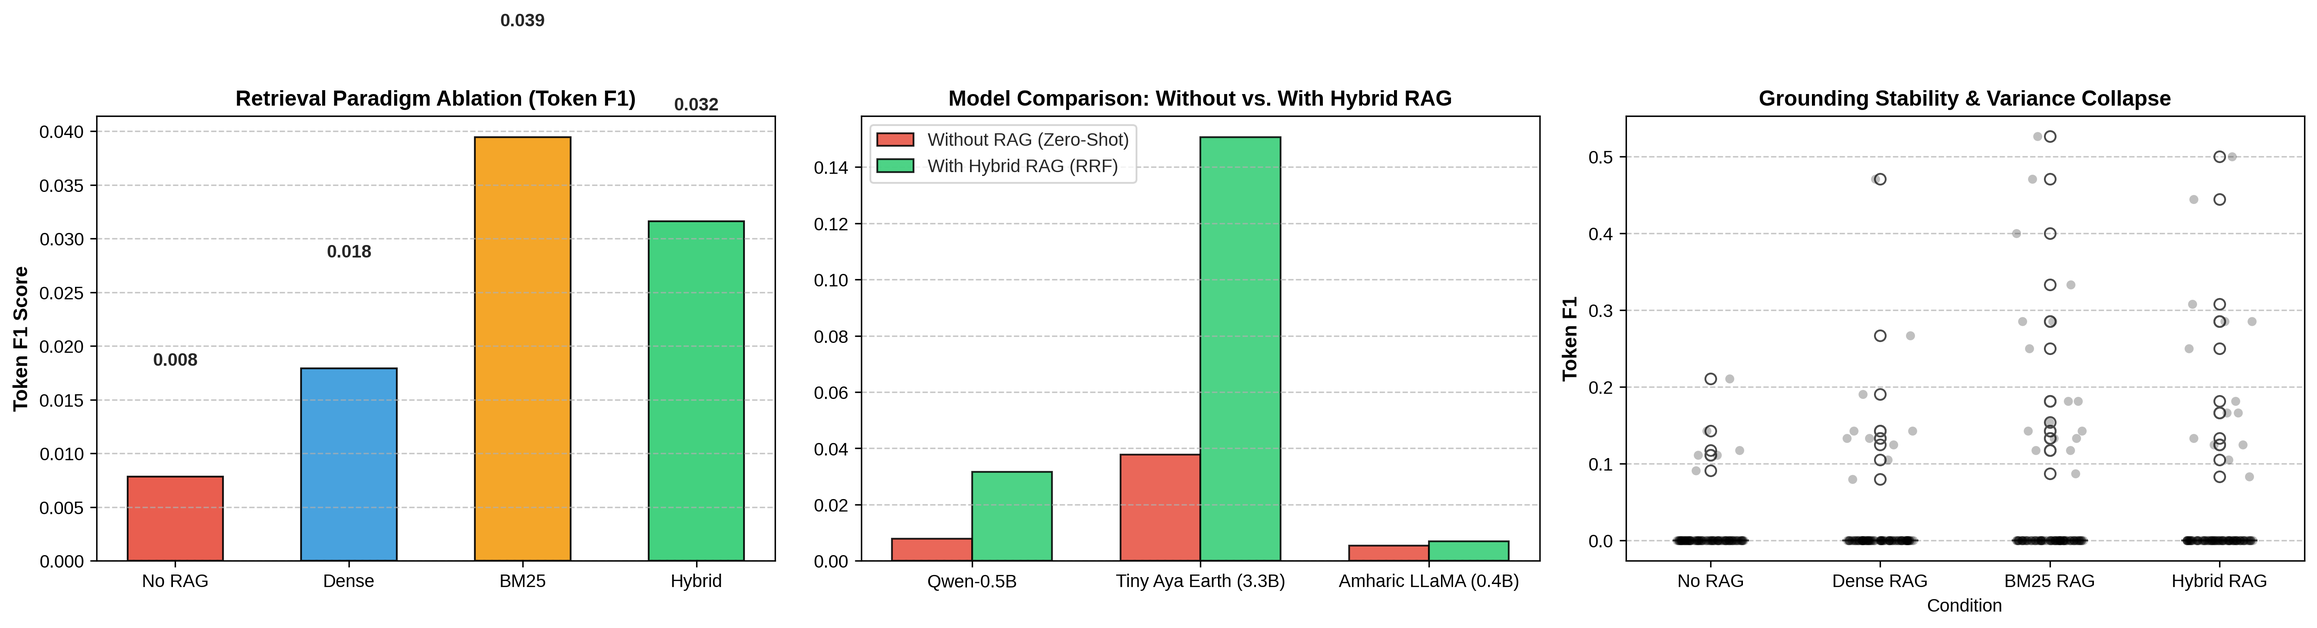
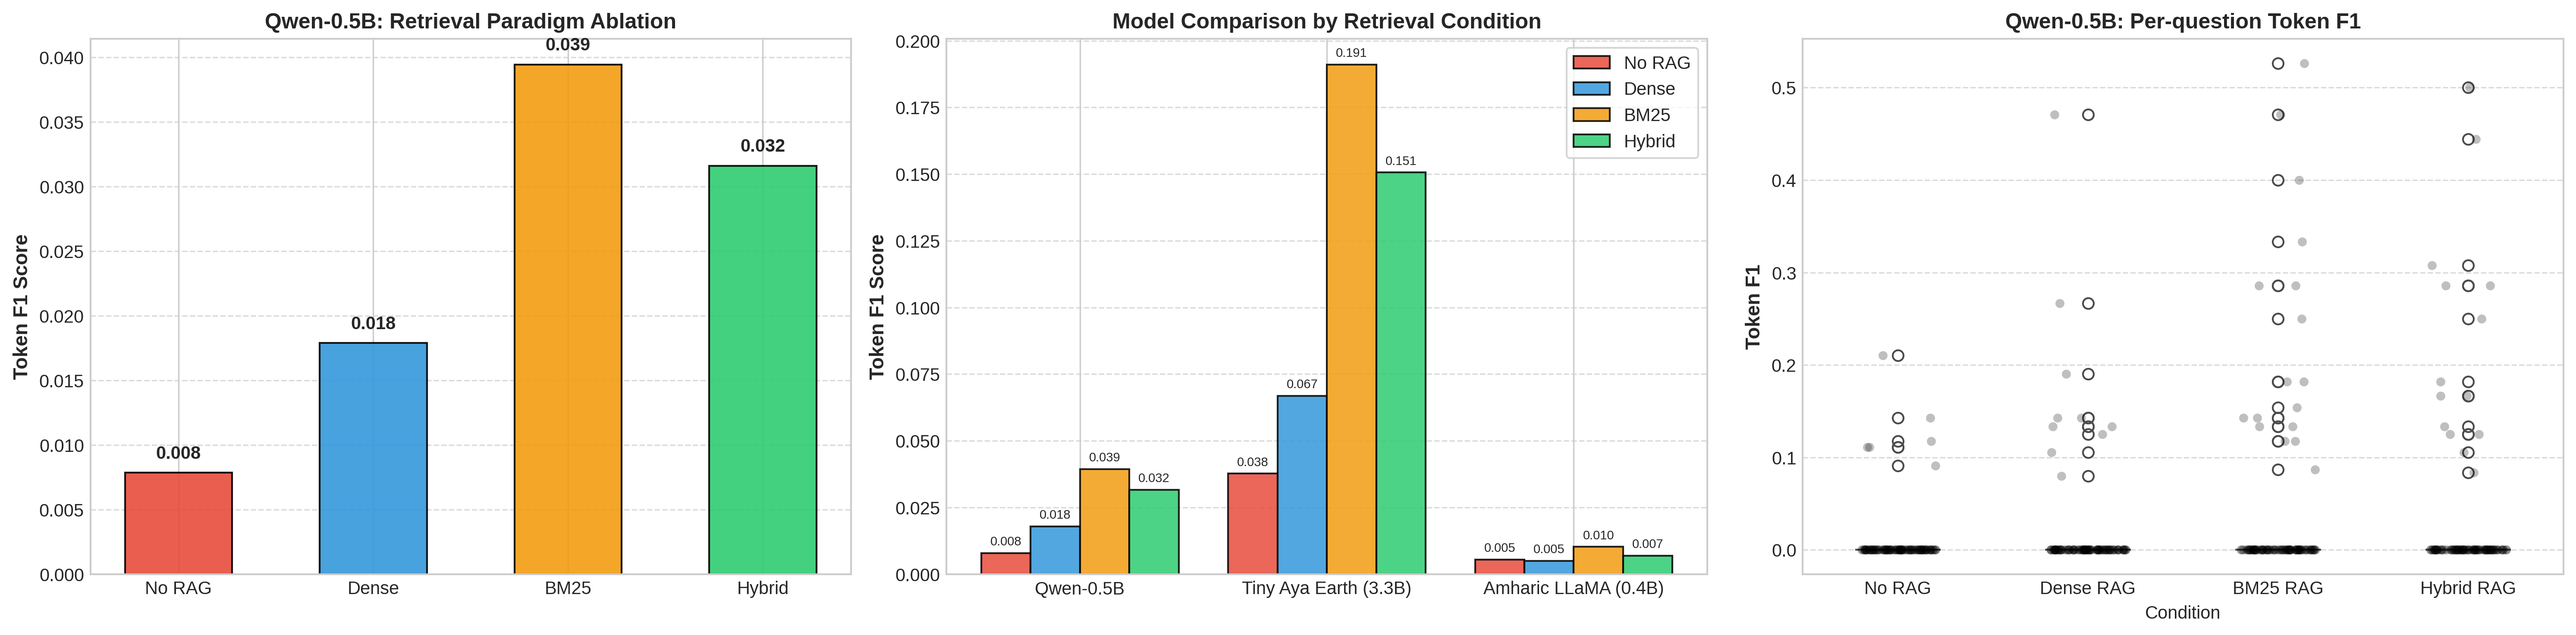
Score all conditions for all models, update README and results

diff --git a/README.md b/README.md
@@ -8,7 +8,7 @@ A small, fully reproducible study of whether retrieval-augmented generation (RAG
 
 ![Results](figures/amharic_rag_enhanced_evaluation.png)
 
-*Left: Qwen2.5-0.5B token F1 by retrieval mode. Middle: each generator without RAG vs. with hybrid RAG. Right: per-question token F1 for Qwen under each condition; most points sit at 0 in every condition.*
+*Left: Qwen2.5-0.5B token F1 by retrieval mode. Middle: token F1 for all three generators under all four conditions. Right: per-question token F1 for Qwen under each condition; most points sit at 0 in every condition.*
 
 ## Setup
 
@@ -40,52 +40,55 @@ BM25 is by far the strongest retriever here. The dense encoder is weak on Amhari
 
 ### 2. End-to-end generation (100 questions, mean token F1)
 
-| Model | No RAG | Dense | BM25 | Hybrid | Δ (Hybrid − No RAG) |
+| Model | No RAG | Dense | BM25 | Hybrid | Δ (best RAG − No RAG) |
 |---|---|---|---|---|---|
-| Qwen2.5-0.5B | 0.008 | 0.018 | **0.039** | 0.032 | +0.024 |
-| **Tiny Aya Earth 3.35B** | 0.038 | not scored | not scored | **0.151** | **+0.113** (about 4x) |
-| Amharic-LLaMA 0.4B | 0.005 | not scored | not scored | 0.007 | +0.002 |
+| Qwen2.5-0.5B | 0.008 | 0.018 | **0.039** | 0.032 | +0.032 (BM25) |
+| **Tiny Aya Earth 3.35B** | 0.038 | 0.067 | **0.191** | 0.151 | **+0.153 (BM25), about 5x** |
+| Amharic-LLaMA 0.4B | 0.005 | 0.005 | **0.010** | 0.007 | +0.005 (BM25) |
 
 Exact Match is 0.0 in every condition.
 
 <details>
 <summary>All metrics (means over 100 questions)</summary>
 
-| Condition | EM | Token F1 | ROUGE-1 | ROUGE-L | SacreBLEU | Token F1 p-value vs. Qwen No-RAG |
+| Condition | EM | Token F1 | ROUGE-1 | ROUGE-L | SacreBLEU | Token F1 p-value vs. own No-RAG |
 |---|---|---|---|---|---|---|
 | Qwen-0.5B, No RAG | 0.0 | 0.0078 | 0.0000 | 0.0000 | 0.27 | baseline |
 | Qwen-0.5B, Dense | 0.0 | 0.0179 | 0.0080 | 0.0080 | 0.45 | 9.4e-2 (n.s.) |
 | Qwen-0.5B, BM25 | 0.0 | 0.0394 | 0.0493 | 0.0493 | 1.26 | 3.7e-3 (**) |
 | Qwen-0.5B, Hybrid | 0.0 | 0.0316 | 0.0400 | 0.0400 | 0.80 | 1.5e-2 (*) |
-| Tiny Aya Earth, No RAG | 0.0 | 0.0377 | 0.0029 | 0.0029 | 0.89 | 8.8e-5 (***) † |
-| Tiny Aya Earth, Hybrid | 0.0 | 0.1506 | 0.1144 | 0.1144 | 5.12 | 9.9e-14 (***) † |
-| Amharic-LLaMA, No RAG | 0.0 | 0.0054 | 0.0017 | 0.0017 | 0.08 | 4.7e-1 (n.s.) † |
-| Amharic-LLaMA, Hybrid | 0.0 | 0.0069 | 0.0079 | 0.0079 | 0.14 | 8.0e-1 (n.s.) † |
+| Tiny Aya Earth, No RAG | 0.0 | 0.0377 | 0.0029 | 0.0029 | 0.89 | baseline |
+| Tiny Aya Earth, Dense | 0.0 | 0.0669 | 0.0380 | 0.0380 | 1.94 | 1.6e-2 (*) |
+| Tiny Aya Earth, BM25 | 0.0 | 0.1911 | 0.1383 | 0.1383 | 6.93 | 4.3e-15 (***) |
+| Tiny Aya Earth, Hybrid | 0.0 | 0.1506 | 0.1144 | 0.1144 | 5.12 | 7.0e-10 (***) |
+| Amharic-LLaMA, No RAG | 0.0 | 0.0054 | 0.0017 | 0.0017 | 0.08 | baseline |
+| Amharic-LLaMA, Dense | 0.0 | 0.0050 | 0.0050 | 0.0050 | 0.12 | 8.7e-1 (n.s.) |
+| Amharic-LLaMA, BM25 | 0.0 | 0.0102 | 0.0047 | 0.0047 | 0.29 | 4.4e-2 (*) |
+| Amharic-LLaMA, Hybrid | 0.0 | 0.0069 | 0.0079 | 0.0079 | 0.14 | 5.5e-1 (n.s.) |
 
-† Cross-model comparison against Qwen's No-RAG scores on the same questions. It shows the model differs from Qwen's baseline, not that RAG helped that model. See the note on p-values below.
+p-values are paired t-tests on per-question token F1, each condition against the same model's No-RAG condition, uncorrected for multiple comparisons. `amharic_rag_enhanced_metrics_summary.csv` also has a column with p-values against *Qwen's* No-RAG baseline; for Tiny Aya and Amharic-LLaMA that column compares across models and does not measure the RAG effect.
 
 </details>
 
 **What the data supports**
 
-- **Retrieval quality is the clearest finding:** BM25 ≫ hybrid ≫ dense on the 60-question retrieval set.
-- **Tiny Aya Earth benefits most from RAG.** Mean token F1 rises from 0.038 to 0.151 (about 4x), ROUGE-1 from 0.003 to 0.114, SacreBLEU from 0.9 to 5.1. It is also the strongest generator without retrieval (0.038 vs. 0.008 for Qwen, paired p = 8.8e-5 on the same questions). A within-model significance test for its RAG gain was not run in this notebook.
-- **Qwen2.5-0.5B improves with every retrieval mode, but from a very low base.** Against its own No-RAG baseline: BM25 +0.032 (p = 0.004), hybrid +0.024 (p = 0.015), dense +0.010 (p = 0.094, n.s.). With 7 comparisons in the table, a Bonferroni threshold is 0.05 / 7 ≈ 0.007: BM25 clears it, hybrid does not. The ordering BM25 > hybrid > dense matches the retrieval ranking, which is suggestive, but the three RAG modes were not tested against each other. Even with the best retriever, mean F1 stays below 0.04.
-- **The Amharic-native 0.4B model shows no measurable benefit** from RAG (+0.002 F1, n.s.). The cause was not diagnosed here; inspect `amharic_rag_enhanced_detailed_predictions.csv` for the raw outputs.
+- **Retrieval quality is the clearest finding:** BM25 ≫ hybrid ≫ dense on the 60-question retrieval set (Recall@3 of 0.90 / 0.58 / 0.12, and the generator sees the top 3 passages).
+- **Generation follows the same ordering for all three models:** BM25 gives the highest token F1, then hybrid, then dense (Amharic-LLaMA's dense score is marginally below its No-RAG score). This is consistent with retrieval quality driving downstream quality, but with three retrievers and one sample it is suggestive, not established; the RAG modes were not tested against each other.
+- **Tiny Aya Earth benefits most from RAG.** With BM25 its mean token F1 rises from 0.038 to 0.191 (about 5x), with hybrid to 0.151 (about 4x), and SacreBLEU from 0.9 to 6.9. Both gains are highly significant against its own baseline (p < 1e-9) and survive a Bonferroni correction. Dense gives a smaller gain (+0.029, p = 0.016) that does not survive it. Tiny Aya is also the strongest generator without retrieval (0.038 vs. 0.008 for Qwen).
+- **Qwen2.5-0.5B improves with every retrieval mode, but from a very low base.** BM25 (+0.032, p = 0.004) is significant at a Bonferroni threshold of 0.05 / 9 ≈ 0.0056; hybrid (+0.024, p = 0.015) and dense (+0.010, p = 0.094) are not. Even with the best retriever, mean F1 stays below 0.04.
+- **The Amharic-native 0.4B model shows no practically meaningful benefit.** Its best condition (BM25, +0.005 F1, p = 0.044) is nominally significant but does not survive correction, and the absolute score is about 0.01. The cause was not diagnosed here; inspect `amharic_rag_enhanced_detailed_predictions.csv` for the raw outputs.
 
 **Qualitative examples.** The notebook prints the three questions where Qwen's hybrid-RAG F1 improved most over its no-RAG answer (best cases, not a random sample). In all three Qwen copies the right span from the context ("15 ወራት", "17 ዓመታት", "450 ሚሊዮን") but pads it with stray or code-switched tokens (e.g. "Worcekta", "StreamReader"), while its no-RAG answers are degenerate repetition ("እና እና እና …"). Tiny Aya returns a fluent full sentence containing the right number, but with morphological variants of the gold answer (ዓመት vs. ዓመታት), Markdown bold, and extra clauses, all of which token F1 penalizes.
-
-**Note on p-values.** `amharic_rag_enhanced_metrics_summary.csv` reports every p-value (paired t-test on token F1) against the *Qwen No-RAG* baseline. That is a valid RAG-effect test only for the Qwen rows. For Tiny Aya and Amharic-LLaMA it compares across models.
 
 ## Limitations
 
 - **Small n.** 100 generation questions and 60 retrieval questions; most per-question F1 values are 0 (right panel of the figure), so means are driven by a minority of items. The paired t-test assumes roughly normal differences, which zero-inflated F1 does not satisfy; a Wilcoxon test or bootstrap CI would be more appropriate.
+- **Multiple comparisons.** The 9 RAG-vs-No-RAG tests are reported uncorrected; the Bonferroni threshold (about 0.0056) is applied only in the discussion above.
 - **Closed-world knowledge base.** The 374 passages are the gold contexts of the dataset's own QA pairs (about 7 questions per passage), so the gold passage is always in the corpus. Real-world retrieval would be harder.
 - **Metric fit.** Gold answers are very short (about 2.8 tokens), and token F1 penalizes Ethiopic numerals vs. Arabic numerals (e.g. ፲፱፻፳፬ vs 1924) and morphological variants. EM = 0 everywhere. Human or LLM-judge evaluation would be more informative.
 - **ROUGE is nearly uninformative on Amharic as run.** The default `rouge_score` tokenizer lowercases and keeps only `[a-z0-9]`, so Ethiopic characters are discarded and only Latin or digit tokens (such as "15" or "450") can match. This is consistent with ROUGE-1 and ROUGE-L being identical in every row. Token F1 and SacreBLEU are the more reliable text metrics; a custom tokenizer is needed for meaningful ROUGE.
 - **Retrieval-eval matching** counts a hit if the gold passage is contained in a candidate (or vice versa) or the first 40 characters match, which is lenient.
 - **Generation quirks.** Several outputs contain degenerate repetition, stray tokens, or trailing garbage; no post-processing or answer extraction is applied. `max_new_tokens=60` truncates long outputs.
-- **Partial scoring.** Dense and BM25 predictions were generated for Tiny Aya Earth and Amharic-LLaMA, but only their No-RAG and hybrid conditions were scored.
 - **Different sample sizes** for retrieval (60) and generation (100) evaluation, one seed (42), no repeated runs.
 - Tiny Aya was run in 4-bit; Qwen and Amharic-LLaMA in fp16.
 - Not tested: dense encoders with real Amharic support, weighted fusion, reranking, larger k, other prompts.
@@ -93,19 +96,20 @@ Exact Match is 0.0 in every condition.
 ## Repository layout
 
 ```
-notebooks/amharic_rag_enhanced_study.ipynb   full pipeline (Colab T4 compatible)
+notebooks/Amharic_LLM_RAG_Benchmark.ipynb    full pipeline (Colab T4 compatible)
 results/
   amharic_retrieval_paradigms_summary.csv    Recall@k / MRR
-  amharic_rag_enhanced_metrics_summary.csv   generation metrics (p-values vs Qwen No-RAG)
+  amharic_rag_enhanced_metrics_summary.csv   generation metrics (p-values vs Qwen No-RAG and vs own No-RAG)
   amharic_rag_enhanced_detailed_predictions.csv  all model outputs per question
-figures/amharic_rag_evaluation.png
+  per_sample_token_f1.csv                    per-question token F1 for every condition
+figures/amharic_rag_enhanced_evaluation.png
 ```
 
 ## Reproduce
 
 ```bash
 pip install -r requirements.txt
-jupyter notebook notebooks/amharic_rag_enhanced_study.ipynb
+jupyter notebook notebooks/Amharic_LLM_RAG_Benchmark.ipynb
 ```
 A GPU (e.g. Colab T4) is recommended; Tiny Aya Earth needs `bitsandbytes` for 4-bit loading and a Hugging Face token.
 
